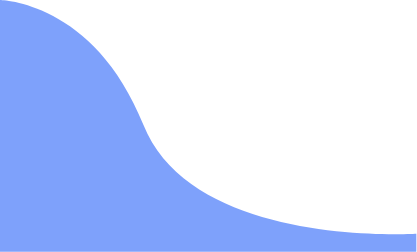
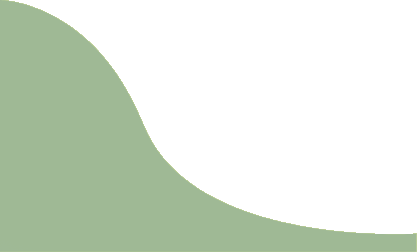
obtiene bien los perfiles

diff --git a/lib/View/seleccionPerfil.dart b/lib/View/seleccionPerfil.dart
@@ -1,11 +1,14 @@
+// ignore_for_file: library_private_types_in_public_api, non_constant_identifier_names
+
 import 'package:animated_background/animated_background.dart';
 import 'package:flutter/material.dart';
 import 'package:smart_family/Model/perfiles.dart';
+import 'package:smart_family/components/colores.dart';
 
 class SeleccionPerfil extends StatefulWidget {
   final int IdUsuario;
 
-  const SeleccionPerfil({Key? key, required this.IdUsuario}) : super(key: key);
+  const SeleccionPerfil({super.key, required this.IdUsuario});
 
   @override
   _SeleccionPerfilState createState() => _SeleccionPerfilState();
@@ -14,7 +17,6 @@ class SeleccionPerfil extends StatefulWidget {
 class _SeleccionPerfilState extends State<SeleccionPerfil>
     with TickerProviderStateMixin {
   late AnimationController _controller;
-  late Animation<Color?> _colorAnimation;
   List<Perfiles> perfiles = [];
 
   @override
@@ -26,11 +28,6 @@ class _SeleccionPerfilState extends State<SeleccionPerfil>
       duration: const Duration(seconds: 5),
       vsync: this,
     )..repeat(reverse: true);
-
-    _colorAnimation = ColorTween(
-      begin: Colors.blue,
-      end: Colors.red,
-    ).animate(_controller);
   }
 
   @override
@@ -40,14 +37,15 @@ class _SeleccionPerfilState extends State<SeleccionPerfil>
   }
 
   void reload() async {
+    print("Entra ${widget.IdUsuario}");
     perfiles = await ServicioPerfiles().getPerfiles(widget.IdUsuario);
+    print("la verdadera vuelta ${perfiles.length}");
+
     setState(() {});
   }
 
   @override
   Widget build(BuildContext context) {
-    Size size = MediaQuery.of(context).size;
-
     return Scaffold(
       body: AnimatedBackground(
         behaviour: RandomParticleBehaviour(
@@ -66,21 +64,17 @@ class _SeleccionPerfilState extends State<SeleccionPerfil>
         child: Column(
           mainAxisAlignment: MainAxisAlignment.center,
           children: [
-            AppBar(
-              title: const Text('Selecciona tu perfil'),
-              backgroundColor: Colors.transparent,
-              elevation: 0,
-            ),
             Expanded(
               child: perfiles.isEmpty
                   ? const Center(
                       child: Text(
                         'No hay perfiles disponibles',
-                        style: TextStyle(color: Color.fromARGB(255, 0, 0, 0), fontSize: 20),
+                        style: TextStyle(color: Colores.texto, fontSize: 20),
                       ),
                     )
                   : GridView.builder(
-                      gridDelegate: const SliverGridDelegateWithFixedCrossAxisCount(
+                      gridDelegate:
+                          const SliverGridDelegateWithFixedCrossAxisCount(
                         crossAxisCount: 2,
                         childAspectRatio: 1.0,
                       ),
@@ -90,28 +84,19 @@ class _SeleccionPerfilState extends State<SeleccionPerfil>
                       },
                     ),
             ),
-            const SizedBox(height: 20),
+            const SizedBox(height: 10),
             ElevatedButton.icon(
               onPressed: () {
                 // Lógica para agregar un nuevo perfil
               },
               icon: const Icon(Icons.add),
-              label: const Text('Agregar perfil'),
+              label: const Text('Gestionar perfiles'),
               style: ElevatedButton.styleFrom(
                 foregroundColor: Colors.white,
-                backgroundColor: Colors.grey[800],
+                backgroundColor: Colores.botonesSecundarios,
               ),
             ),
-            TextButton(
-              onPressed: () {
-                // Lógica para administrar perfiles
-              },
-              child: const Text(
-                'Administrar perfiles',
-                style: TextStyle(color: Colors.white),
-              ),
-            ),
-            const SizedBox(height: 20),
+            const SizedBox(height: 50),
           ],
         ),
       ),
@@ -136,7 +121,8 @@ class ProfileTile extends StatelessWidget {
           CircleAvatar(
             radius: 40,
             backgroundColor: Colors.transparent,
-            child: Text(perfil.Nombre[0], style: TextStyle(color: Colors.white, fontSize: 24)),
+            child: Text(perfil.Nombre[0],
+                style: TextStyle(color: Colors.white, fontSize: 24)),
           ),
           const SizedBox(height: 10),
           Text(
@@ -149,11 +135,3 @@ class ProfileTile extends StatelessWidget {
   }
 }
 
-class ServicioPerfiles {
-  Future<List<Perfiles>> getPerfiles(int idUsuario) async {
-    // Aquí iría la lógica para obtener los perfiles del usuario
-    // Por simplicidad, devolveré una lista vacía
-    await Future.delayed(Duration(seconds: 1)); // Simulando una operación asíncrona
-    return [];
-  }
-}

diff --git a/lib/View/login.dart b/lib/View/login.dart
@@ -6,6 +6,7 @@ import 'package:smart_family/View/register.dart';
 import 'package:smart_family/View/seleccionPerfil.dart';
 import 'package:smart_family/components/background.dart';
 import 'package:page_transition/page_transition.dart';
+import 'package:smart_family/components/colores.dart';
 
 class LoginScreen extends StatefulWidget {
   @override
@@ -39,7 +40,7 @@ class _LoginScreenState extends State<LoginScreen> {
                 "LOGIN",
                 style: TextStyle(
                     fontWeight: FontWeight.bold,
-                    color: Color(0xFF2661FA),
+                    color: Colores.texto, // Naranja
                     fontSize: 36),
                 textAlign: TextAlign.left,
               ),
@@ -51,7 +52,15 @@ class _LoginScreenState extends State<LoginScreen> {
               child: TextField(
                 controller: _emailOrPhoneController,
                 decoration: const InputDecoration(
-                    labelText: "Correo o número de teléfono"),
+                    labelText: "Correo o número de teléfono",
+                    labelStyle: TextStyle(color: Colores.texto), // Gris Oscuro
+                    enabledBorder: UnderlineInputBorder(
+                      borderSide: BorderSide(color: Colores.texto), // Gris Oscuro
+                    ),
+                    focusedBorder: UnderlineInputBorder(
+                      borderSide: BorderSide(color: Colores.texto), // Gris Oscuro
+                    )),
+                style: const TextStyle(color: Colores.texto), // Gris Oscuro
               ),
             ),
             SizedBox(height: size.height * 0.03),
@@ -63,13 +72,22 @@ class _LoginScreenState extends State<LoginScreen> {
                 obscureText: _obscureText,
                 decoration: InputDecoration(
                   labelText: "Contraseña",
+                  labelStyle: const TextStyle(color: Colores.texto), // Gris Oscuro
+                  enabledBorder: const UnderlineInputBorder(
+                    borderSide: BorderSide(color: Colores.texto), // Gris Oscuro
+                  ),
+                  focusedBorder: const UnderlineInputBorder(
+                    borderSide: BorderSide(color: Colores.texto), // Gris Oscuro
+                  ),
                   suffixIcon: IconButton(
                     icon: Icon(
                       _obscureText ? Icons.visibility : Icons.visibility_off,
+                      color: Colores.texto, // Gris Oscuro
                     ),
                     onPressed: _togglePasswordVisibility,
                   ),
                 ),
+                style: const TextStyle(color: Colores.texto), // Gris Oscuro
               ),
             ),
             Container(
@@ -77,7 +95,7 @@ class _LoginScreenState extends State<LoginScreen> {
               margin: const EdgeInsets.symmetric(horizontal: 40, vertical: 10),
               child: const Text(
                 "No recuerdo mi contraseña",
-                style: TextStyle(fontSize: 12, color: Color(0XFF2661FA)),
+                style: TextStyle(fontSize: 12, color: Colores.texto), // Naranja
               ),
             ),
             SizedBox(height: size.height * 0.05),
@@ -99,14 +117,12 @@ class _LoginScreenState extends State<LoginScreen> {
                   width: size.width * 0.5,
                   decoration: BoxDecoration(
                       borderRadius: BorderRadius.circular(80.0),
-                      gradient: const LinearGradient(colors: [
-                        Color.fromARGB(255, 255, 136, 34),
-                        Color.fromARGB(255, 255, 177, 41)
-                      ])),
+                      color: Colores.botones), // Fondo Naranja
                   padding: const EdgeInsets.all(0),
                   child: const Text(
                     "INICIAR SESIÓN",
                     textAlign: TextAlign.center,
+                    style: TextStyle(color: Colors.white), // Texto Blanco
                   ),
                 ),
               ),
@@ -124,7 +140,7 @@ class _LoginScreenState extends State<LoginScreen> {
                   style: TextStyle(
                       fontSize: 12,
                       fontWeight: FontWeight.bold,
-                      color: Color(0xFF2661FA)),
+                      color: Colores.texto), // Naranja
                 ),
               ),
             )
@@ -143,9 +159,7 @@ class _LoginScreenState extends State<LoginScreen> {
         await servicioUsuarios.login(emailOrPhone, password);
 
     if (usuario != null) {
-      ScaffoldMessenger.of(context).showSnackBar(
-        const SnackBar(content: Text('Inicio de sesión exitoso')),
-      );
+      
       Navigator.push(
         context,
         PageTransition(

diff --git a/lib/Model/usuario.dart b/lib/Model/usuario.dart
@@ -63,9 +63,9 @@ class ServicioUsuarios {
         final usuario = Usuario(
           Id: resultado.first['Id'],
           Telefono: resultado.first['Telefono'],
-          Correo: resultado.first['Correo'],
-          Nombre: resultado.first['Nombre'],
-          Password: resultado.first['Password'],
+          Correo: resultado.first['Correo'].toString(),
+          Nombre: resultado.first['Nombre'].toString(),
+          Password: resultado.first['Password'].toString(),
         );
         return usuario;
       }
@@ -132,7 +132,8 @@ class ServicioUsuarios {
   Future<bool> isCorreoRegistered(String correo) async {
     MySqlConnection conn = await DB().conexion();
     try {
-      final resultado = await conn.query('SELECT * FROM usuarios WHERE Correo = ?', [correo]);
+      final resultado =
+          await conn.query('SELECT * FROM usuarios WHERE Correo = ?', [correo]);
       return resultado.isNotEmpty;
     } catch (e) {
       print('Error al verificar el correo: $e');
@@ -146,7 +147,8 @@ class ServicioUsuarios {
   Future<bool> isTelefonoRegistered(int telefono) async {
     MySqlConnection conn = await DB().conexion();
     try {
-      final resultado = await conn.query('SELECT * FROM usuarios WHERE Telefono = ?', [telefono]);
+      final resultado = await conn
+          .query('SELECT * FROM usuarios WHERE Telefono = ?', [telefono]);
       return resultado.isNotEmpty;
     } catch (e) {
       print('Error al verificar el teléfono: $e');
@@ -157,7 +159,8 @@ class ServicioUsuarios {
   }
 
   // Registro de usuario con verificación
-  Future<bool> registrarUsuario(int telefono, String correo, String nombre, String password) async {
+  Future<bool> registrarUsuario(
+      int telefono, String correo, String nombre, String password) async {
     if (await isCorreoRegistered(correo)) {
       print('El correo ya está registrado');
       return false;

diff --git a/lib/Model/perfiles.dart b/lib/Model/perfiles.dart
@@ -3,7 +3,6 @@
 import 'package:mysql1/mysql1.dart';
 import 'package:smart_family/Library/db_data.dart';
 
-
 // CLASES DE PERSONAS REALES
 class Perfiles {
   final int Id;
@@ -21,15 +20,18 @@ class Perfiles {
 class ServicioPerfiles {
   // BUSCAR USUARIOS //
   Future<List<Perfiles>> getPerfiles(int UsuarioId) async {
+    print("usuario $UsuarioId");
     MySqlConnection conn = await DB().conexion();
     try {
-      final resultado = await conn.query('SELECT * FROM perfiles WHERE UsuarioId = $UsuarioId');
+      // Asegúrate de que la columna 'UsuarioId' y las demás existan en tu tabla y estén correctamente escritas.
+      final resultado = await conn.query('SELECT * FROM perfiles WHERE UsuarioId = ?', [UsuarioId]);
       final List<Perfiles> perfiles = resultado.map((row) {
         return Perfiles(
-            Id: row['Id'],
-            UsuarioId: row['UsuarioId'],
-            Nombre: row['Nombre'],
-            FotoPerfilId: row['FotoPerfilId']);
+          Id: row['Id'],
+          UsuarioId: row['UsuarioId'],
+          Nombre: row['Nombre'].toString(),
+          FotoPerfilId: row['FotoPerfilId'],
+        );
       }).toList();
       return perfiles;
     } catch (e) {
@@ -63,10 +65,9 @@ class ServicioPerfiles {
     }
   }
 
-  
-
   // Registro de usuario con verificación
-  Future<bool> registrarPerfil(int UsuarioId, String Nombre, String FotoPerfilId) async {
+  Future<bool> registrarPerfil(
+      int UsuarioId, String Nombre, String FotoPerfilId) async {
     MySqlConnection conn = await DB().conexion();
     try {
       await conn.query(

diff --git a/lib/main.dart b/lib/main.dart
@@ -1,5 +1,7 @@
 import 'package:flutter/material.dart';
 import 'View/login.dart';
+import 'package:smart_family/components/colores.dart';
+
 
 void main() {
   runApp(MyApp());
@@ -13,8 +15,8 @@ class MyApp extends StatelessWidget {
       title: 'Flutter Login',
       debugShowCheckedModeBanner: false,
       theme: ThemeData(
-        primaryColor: Color(0xFF2661FA),
-        scaffoldBackgroundColor: Colors.white,
+        primaryColor: Colores.principal,
+        scaffoldBackgroundColor: Colores.fondo,
         visualDensity: VisualDensity.adaptivePlatformDensity,
       ),
       home: LoginScreen(),

diff --git a/lib/components/background.dart b/lib/components/background.dart
@@ -34,14 +34,14 @@ class Background extends StatelessWidget {
               width: size.width
             ),
           ),
-          Positioned(
+          /*Positioned(
             top: 50,
             right: 30,
             child: Image.asset(
               "assets/images/main.png",
               width: size.width * 0.35
             ),
-          ),
+          ),*/
           Positioned(
             bottom: 0,
             right: 0,

diff --git a/lib/components/colores.dart b/lib/components/colores.dart
@@ -1,0 +1,10 @@
+// lib/utils/colors.dart
+import 'package:flutter/material.dart';
+
+class Colores {
+  static const Color principal = Color(0xFFABC270);
+  static const Color botones = Color(0xFFFEC868);
+  static const Color botonesSecundarios = Color(0xFFFDA769);
+  static const Color texto = Color(0xFF473C33);
+  static const Color fondo = Color(0xFFFFFFFF);
+}
